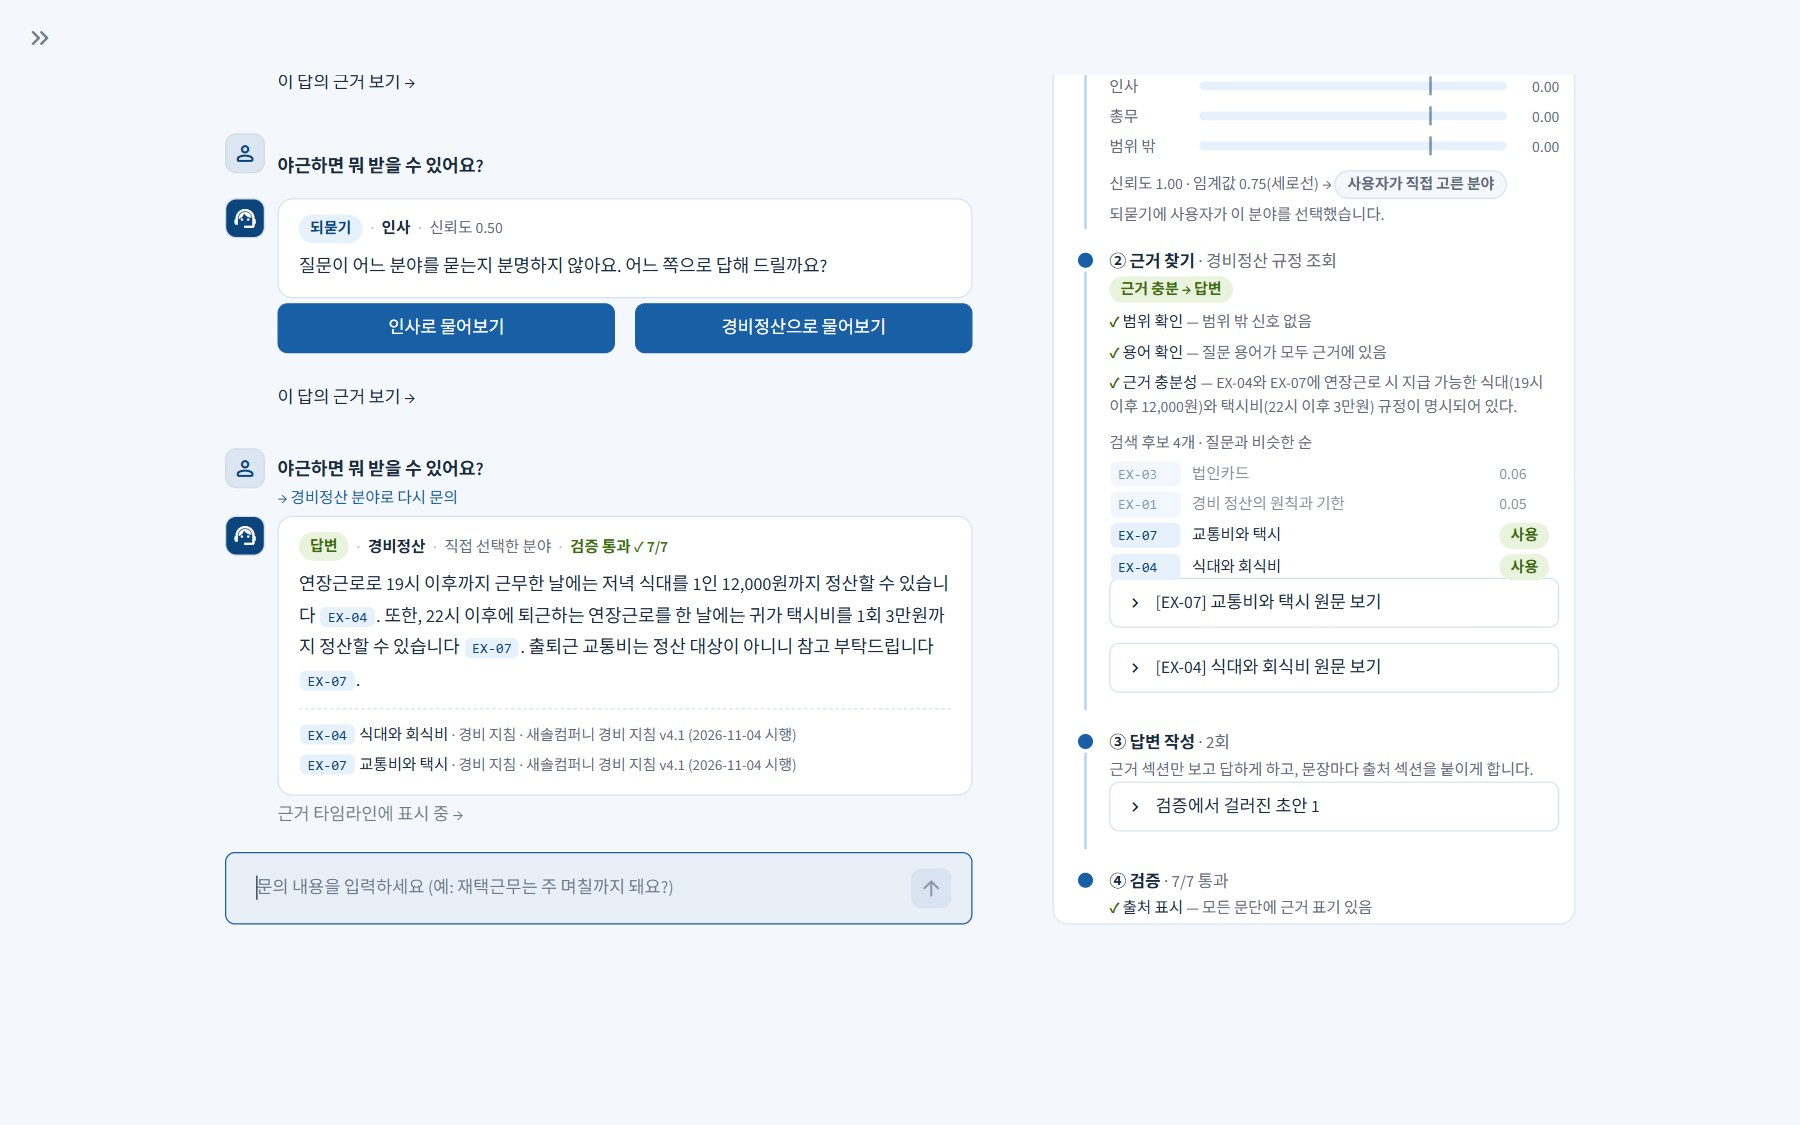
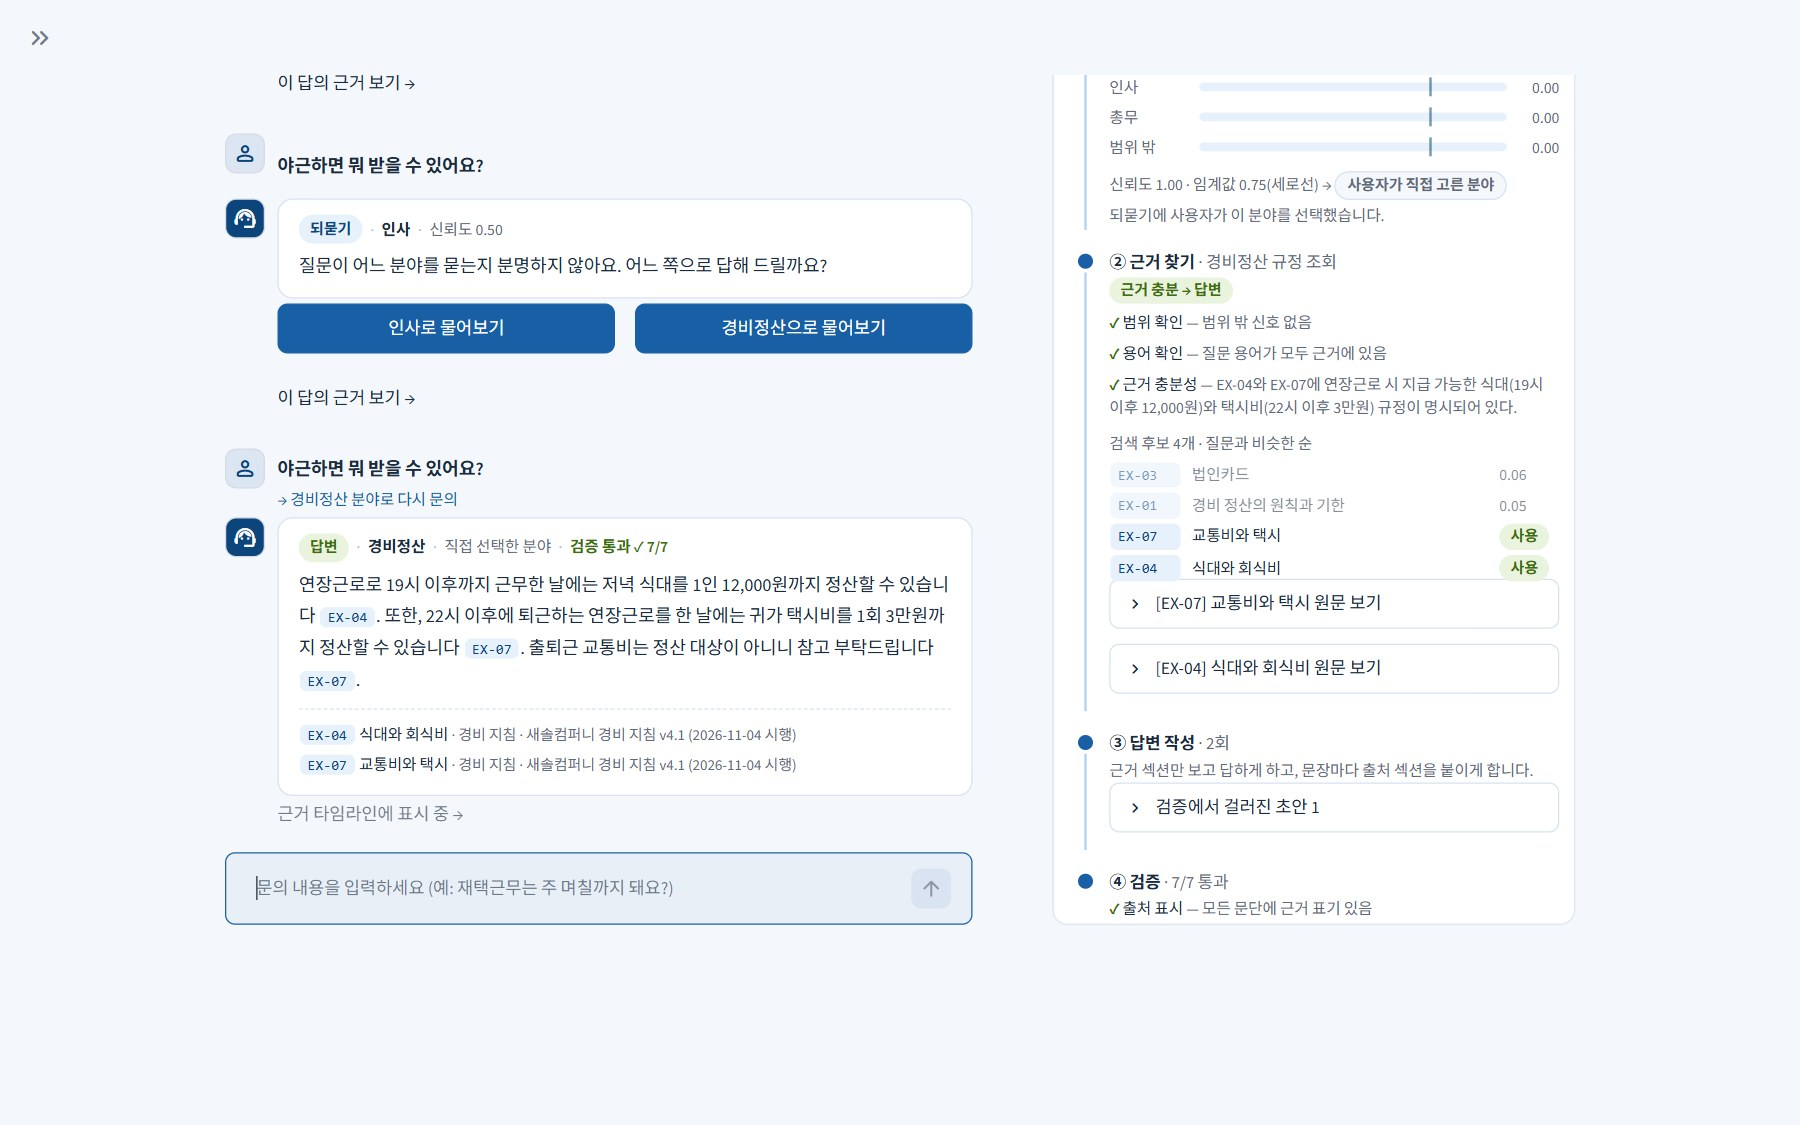
상단 바를 소개 카드로 교체
- 남색 덩어리 대신 흰 카드 + 왼쪽 파란 띠
- 긴 설명 문장을 핵심 동작 칩 4개로(4개 분야 · 규정 근거로만 답변 · 모호하면 되묻기 · 담당자 연결)
- REPORT 스크린샷과 디자인 설명 갱신

diff --git a/app.py b/app.py
@@ -41,15 +41,17 @@ st.markdown("""
   --fr-info: #0C447C; --fr-info-bg: #E6F1FB; --fr-bad: #A32D2D; --fr-bad-bg: #FCEBEB;
 }
 .block-container { padding-top: 3.2rem; max-width: 1240px; }
-/* 상단 남색 바 */
-.fr-top { background: var(--fr-navy); color: #fff; border-radius: 12px; padding: 16px 20px; margin-bottom: 14px;
-  display: flex; align-items: center; gap: 14px; flex-wrap: wrap; }
-.fr-top .logo { width: 40px; height: 40px; border-radius: 10px; background: rgba(255,255,255,.14); display: flex;
-  align-items: center; justify-content: center; font-size: 22px; flex: none; }
-.fr-top .name { font-size: 20px; font-weight: 700; letter-spacing: -.2px; line-height: 1.3; }
-.fr-top .tag { font-size: 13px; color: #B5D4F4; line-height: 1.5; }
-.fr-top .demo { margin-left: auto; font-size: 11.5px; color: #B5D4F4; border: 1px solid rgba(181,212,244,.45);
-  border-radius: 999px; padding: 2px 10px; white-space: nowrap; }
+/* 상단 소개 카드: 제목 + 핵심 동작 칩 4개 */
+.fr-top { background: var(--fr-card); border: 1px solid var(--fr-line); border-left: 5px solid var(--fr-accent);
+  border-radius: 0 12px 12px 0; padding: 14px 20px 16px; margin-bottom: 12px; }
+.fr-top .row { display: flex; align-items: center; gap: 10px; flex-wrap: wrap; }
+.fr-top .name { font-size: 21px; font-weight: 700; letter-spacing: -.3px; line-height: 1.3; color: var(--fr-text); }
+.fr-top .demo { font-size: 11.5px; color: var(--fr-muted); border: 1px solid var(--fr-line); border-radius: 999px;
+  padding: 1px 9px; white-space: nowrap; }
+.fr-top .feats { display: flex; flex-wrap: wrap; gap: 6px; margin-top: 10px; }
+.fr-top .feat { font-size: 12.5px; background: var(--fr-tint); color: var(--fr-navy); border-radius: 999px;
+  padding: 3px 11px; white-space: nowrap; }
+.fr-top .feat i { font-style: normal; margin-right: 4px; }
 /* 예시 질문 칩 */
 .fr-chips-h { font-size: 12.5px; color: var(--fr-muted); margin: 2px 0 6px; }
 .st-key-chips { gap: 6px !important; margin-bottom: 6px; }
@@ -220,10 +222,11 @@ with st.sidebar:
     use_term = st.toggle("용어 확인으로 담당자 연결", True)
     use_gate = st.toggle("근거 충분성 판단", True, disabled=provider == "offline")
 
-html_block('<div class="fr-top"><div class="logo">🏢</div><div><div class="name">새솔컴퍼니 사내 헬프데스크</div>'
-           '<div class="tag">IT지원·인사·총무·경비정산 문의를 그 분야의 사내 규정에서만 답합니다. '
-           '분야가 모호하면 되묻고, 규정에 없으면 담당 부서로 연결합니다.</div></div>'
-           '<span class="demo">가상 회사 규정 기반 과제용 데모</span></div>')
+FEATURES = [("🗂", "IT·인사·총무·경비 4개 분야"), ("📄", "규정 근거로만 답변"),
+            ("❓", "모호하면 되묻기"), ("📞", "규정에 없으면 담당자 연결")]
+html_block('<div class="fr-top"><div class="row"><span class="name">새솔컴퍼니 사내 헬프데스크</span>'
+           '<span class="demo">가상 회사 규정 기반 과제용 데모</span></div><div class="feats">'
+           + "".join(f'<span class="feat"><i>{icon}</i>{text}</span>' for icon, text in FEATURES) + "</div></div>")
 
 tab_ask, tab_eval, tab_map = st.tabs(["문의하기", "평가 결과", "카테고리·근거 매핑"])
 

diff --git a/REPORT.md b/REPORT.md
@@ -250,13 +250,13 @@ python -m streamlit run app.py
 
 ![진행 표시](assets/demo_progress.jpg)
 
-LLM을 여러 번 부르므로 답이 나오기까지 몇 초가 걸린다. 그동안 빈 스피너만 보이지 않도록, `Agent.stream()`이 LangGraph의 `stream(mode="updates")`로 노드가 끝날 때마다 상태를 내보낸다. 화면은 그 상태로 "① 분야 판정 — IT지원 (신뢰도 0.95)", "② 규정에서 근거 찾기 — 1개 섹션"처럼 단계를 하나씩 켠다. 최종 결과는 `run()`과 같다(offline 모드로 대조함).
+LLM을 여러 번 부르므로 답이 나오기까지 몇 초가 걸린다. 그동안 빈 스피너만 보이지 않도록, `Agent.stream()`이 LangGraph의 `stream(mode="updates")`로 노드가 끝날 때마다 상태를 내보낸다. 화면은 그 상태로 "① 분야 판정 — IT지원 (신뢰도 0.90)", "② 규정에서 근거 찾기 — 1개 섹션"처럼 단계를 하나씩 켠다. 최종 결과는 `run()`과 같다(offline 모드로 대조함).
 
 **근거 타임라인: 왼쪽은 대화, 오른쪽은 이번 답이 거친 ①→④ 단계**
 
 ![근거 타임라인](assets/demo_answer.jpg)
 
-- 화면 디자인(오피스 블루): 사내 포털처럼 밝은 배경에 남색 상단 바와 흰 카드를 썼다. 테마 색은 `.streamlit/config.toml`에 두었다.
+- 화면 디자인(오피스 블루): 사내 포털처럼 밝은 배경에 흰 카드를 썼다. 맨 위 소개 카드는 긴 설명 문장 대신 "4개 분야 · 규정 근거로만 답변 · 모호하면 되묻기 · 규정에 없으면 담당자 연결" 칩 네 개로 에이전트가 하는 일을 보여 준다. 테마 색은 `.streamlit/config.toml`에 두었다.
 - 화면 구성
   - **예시 질문 칩**: 상단에 "IT지원 · 계정 잠김", "모호한 질문 · 야근", "범위 밖 · 점심 메뉴"처럼 *어떤 경우를 보여 주는 질문인지*를 이름으로 단 버튼 7개와 '새 대화' 버튼을 둔다. 마우스를 올리면 실제 질문이 보인다.
   - **채팅 형식**: 이전 문의와 답이 메신저처럼 쌓인다. 답은 흰 카드 하나에 한 줄 요약(결과 · 분야 · 신뢰도 · 검증 n/7), 답변, 출처를 함께 담았다.
